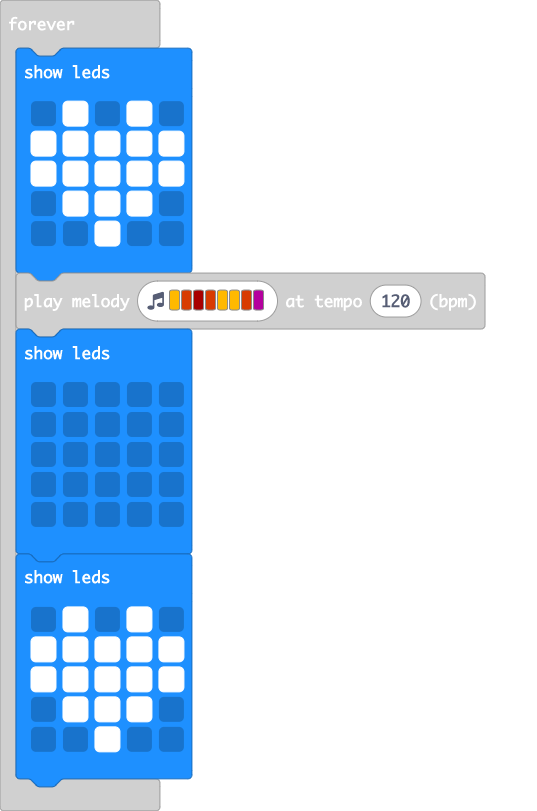
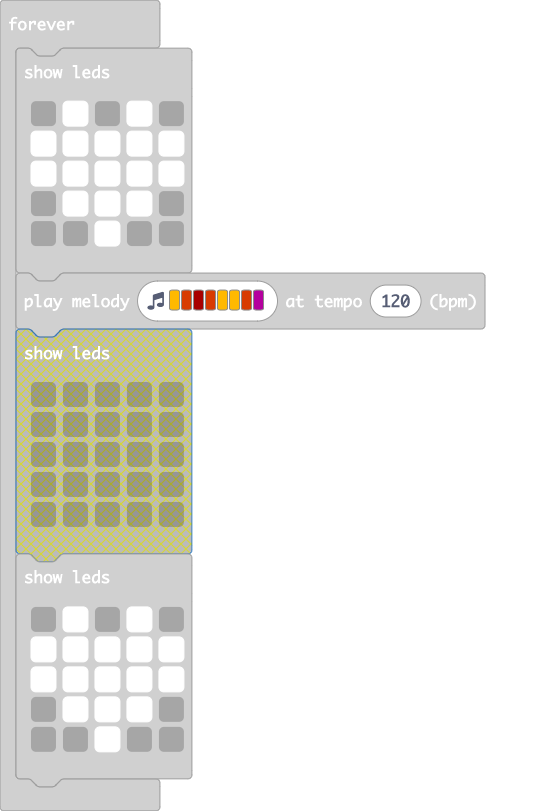
Update main.blocks, main.ts

Changed region(s): [[0.0298, 0.4007, 0.3575, 0.9864], [0.0298, 0.0308, 0.3575, 0.3699]]

diff --git a/main.ts b/main.ts
@@ -8,13 +8,6 @@ basic.forever(function () {
         `)
     music.playMelody("A B C5 B A A B C ", 120)
     basic.showLeds(`
-        . . . . .
-        . . . . .
-        . . . . .
-        . . . . .
-        . . . . .
-        `)
-    basic.showLeds(`
         . # . # .
         # # # # #
         # # # # #
